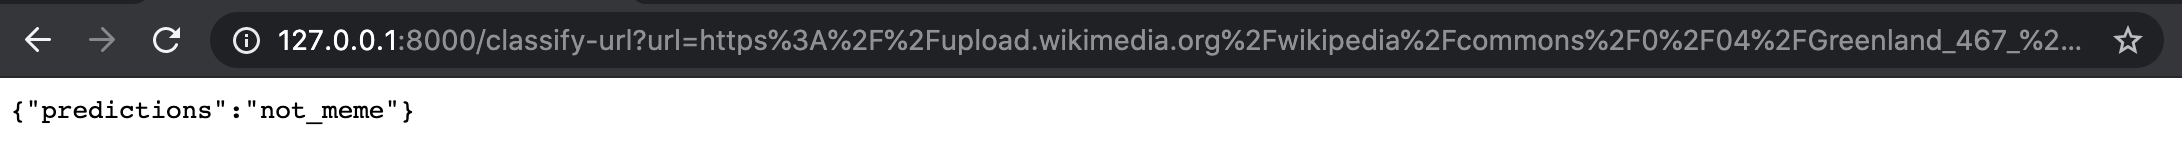
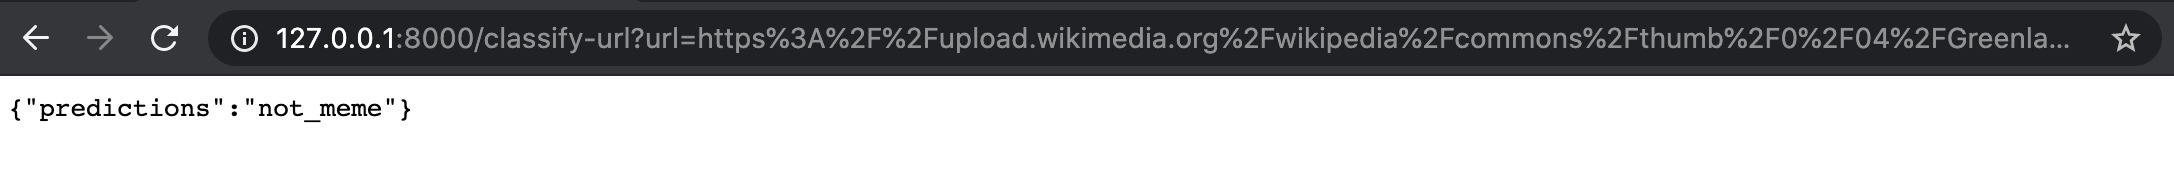
README Updated

Changed region(s): [[0.0, 0.122, 0.9862, 0.3354], [0.0, 0.3659, 1.0, 0.4878], [0.0, 0.5183, 0.1849, 0.7622]]

diff --git a/README.md b/README.md
@@ -33,11 +33,11 @@ http://127.0.0.1:8000/upload
 <img src="data/ex1.png">
 
 
-**Input Image (URL):** `https://upload.wikimedia.org/wikipedia/commons/0/04/Greenland_467_%2835130903436%29.jpg`
-<img src="https://upload.wikimedia.org/wikipedia/commons/0/04/Greenland_467_%2835130903436%29.jpg">
+**Input Image (URL):** `https://upload.wikimedia.org/wikipedia/commons/thumb/0/04/Greenland_467_%2835130903436%29.jpg/640px-Greenland_467_%2835130903436%29.jpg`
+<img src="https://upload.wikimedia.org/wikipedia/commons/thumb/0/04/Greenland_467_%2835130903436%29.jpg/640px-Greenland_467_%2835130903436%29.jpg">
 
 **Prediction:**
-http://127.0.0.1:8000/classify-url?url=https%3A%2F%2Fupload.wikimedia.org%2Fwikipedia%2Fcommons%2F0%2F04%2FGreenland_467_%252835130903436%2529.jpg
+http://127.0.0.1:8000/classify-url?url=https%3A%2F%2Fupload.wikimedia.org%2Fwikipedia%2Fcommons%2Fthumb%2F0%2F04%2FGreenland_467_%252835130903436%2529.jpg%2F640px-Greenland_467_%252835130903436%2529.jpg
 
 <img src="data/ex2.png">
 
